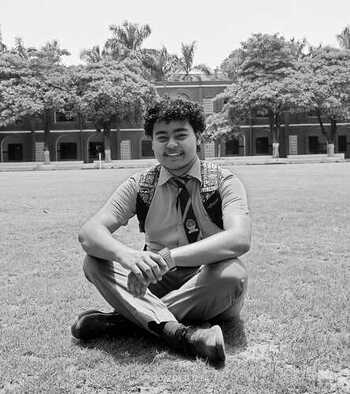
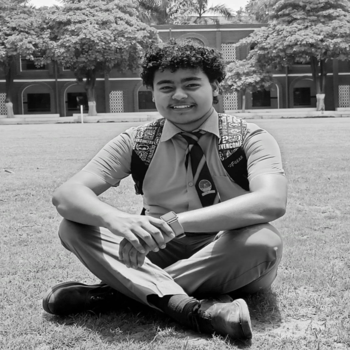
update_2

diff --git a/my-project/src/constants/index.js b/my-project/src/constants/index.js
@@ -3,9 +3,13 @@ import project2 from "../assets/projects/project-2.jpg";
 import project3 from "../assets/projects/project-3.jpg";
 import project4 from "../assets/projects/project-4.jpg";
 
-export const HERO_CONTENT = `I am a passionate full stack developer with a knack for crafting robust and scalable web applications. With 5 years of hands-on experience, I have honed my skills in front-end technologies like React and Next.js, as well as back-end technologies like Node.js, MySQL, PostgreSQL, and MongoDB. My goal is to leverage my expertise to create innovative solutions that drive business growth and deliver exceptional user experiences.`;
+export const HERO_CONTENT = `I'm a Computer Science student who loves turning ideas into working systems. Whether it's building tools that make things easier, automating what feels slow, or just figuring out how things work under the hood—I'm always up for the challenge. I care about writing clean, thoughtful code and creating things that are actually useful and enjoying the process of getting better every day.`;
 
-export const ABOUT_TEXT = `I am a dedicated and versatile full stack developer with a passion for creating efficient and user-friendly web applications. With 5 years of professional experience, I have worked with a variety of technologies, including React, Next.js, Node.js, MySQL, PostgreSQL, and MongoDB. My journey in web development began with a deep curiosity for how things work, and it has evolved into a career where I continuously strive to learn and adapt to new challenges. I thrive in collaborative environments and enjoy solving complex problems to deliver high-quality solutions. Outside of coding, I enjoy staying active, exploring new technologies, and contributing to open-source projects.`;
+export const ABOUT_TEXT = `I am a dedicated and curious developer with a strong interest in building reliable, thoughtful, and practical systems. While currently pursuing my degree in Computer Science, I’ve spent the past few years designing and developing full-stack applications that solve real problems — from smart traffic systems to facial recognition-based queue management tools.
+
+I’ve worked with technologies like Python, Flask, SQLite, React, and OpenCV, and I’m always expanding my toolkit as I explore areas like AI, backend development, and embedded systems. My journey into tech started with a simple interest in how systems work, and it’s grown into a drive to create things that are both technically solid and genuinely useful.
+
+I enjoy working on collaborative projects, leading initiatives like the MLSA community at MIET, and constantly learning from every challenge. Outside of coding, you’ll find me experimenting with new tech, thinking about system design, or simplifying complex ideas into working solutions.`;
 
 export const EXPERIENCES = [
   {
@@ -40,37 +44,44 @@ export const EXPERIENCES = [
 
 export const PROJECTS = [
   {
-    title: "E-Commerce Website",
+    title: "Smart Queue Reduction System",
     image: project1,
     description:
-      "A fully functional e-commerce website with features like product listing, shopping cart, and user authentication.",
-    technologies: ["HTML", "CSS", "React", "Node.js", "MongoDB"],
+      "A facial recognition-based queue management system that reduces waiting times and ensures secure authentication.",
+    technologies: ["Python", "OpenCV", "Flask", "SQLite", "React"],
   },
   {
-    title: "Task Management App",
+    title: "Presence",
     image: project2,
     description:
-      "An application for managing tasks and projects, with features such as task creation, assignment, and progress tracking.",
-    technologies: ["HTML", "CSS", "Angular", "Firebase"],
+      "An AI-based attendance system that uses facial recognition to automate and secure attendance tracking.",
+    technologies: ["Python", "Flask", "OpenCV", "React", "SQLite"],
   },
   {
-    title: "Portfolio Website",
+    title: "VeriScan",
     image: project3,
     description:
-      "A personal portfolio website showcasing projects, skills, and contact information.",
-    technologies: ["HTML", "CSS", "React", "Bootstrap"],
+      "An ID verification system that extracts Aadhaar numbers from uploaded images using OCR for secure authentication.",
+    technologies: ["Python", "Flask", "React", "SQLite", "Tesseract OCR"],
   },
   {
-    title: "Blogging Platform",
+    title: "Smart Traffic Light System",
     image: project4,
     description:
-      "A platform for creating and publishing blog posts, with features like rich text editing, commenting, and user profiles.",
-    technologies: ["HTML", "CSS", "Vue.js", "Express", "mySQL"],
+      "An AI-powered traffic management system that dynamically adjusts signals based on vehicle density.",
+    technologies: ["Python", "OpenCV", "Flask", "React", "MongoDB"],
   },
+  // {
+  //   title: "AI-Powered Speed Reading App",
+  //   image: project5,
+  //   description:
+  //     "A web application that extracts text from book images and displays words at a user-controlled speed for faster reading.",
+  //   technologies: ["Python", "Flask", "React", "OCR", "SQLite"],
+  // },
 ];
 
 export const CONTACT = {
   address: "Meerut, Uttar Pradesh, India",
-  phoneNo: "+91 9520664190 ",
-  email: "yagyanshsinghdeshwal@gmil.com",
+  phoneNo: "+91   9520664190 ",
+  email: "yagyanshsinghdeshwal@gmail.com",
 };

diff --git a/my-project/src/components/Technologies.jsx b/my-project/src/components/Technologies.jsx
@@ -1,8 +1,12 @@
 import { RiReactjsLine } from "react-icons/ri";
-import { TbBrandNextjs } from "react-icons/tb";
-import { SiMongodb } from "react-icons/si";
-import { DiRedis } from "react-icons/di";
-import { FaNodeJs } from "react-icons/fa";
+import {
+  SiMongodb,
+  SiFastapi,
+  SiFlask,
+  SiJavascript,
+  SiPython,
+  SiAmazon,
+} from "react-icons/si"; // Changed AWS to SiAmazon
 import { BiLogoPostgresql } from "react-icons/bi";
 import { motion } from "framer-motion";
 
@@ -49,7 +53,23 @@ const Technologies = () => {
           animate="animate"
           className="rounded-2xl border-4 border-neutral-800 p-4"
         >
-          <TbBrandNextjs className="text-7xl" />
+          <SiPython className="text-7xl text-blue-500" />
+        </motion.div>
+        <motion.div
+          variants={iconVariants(2)}
+          initial="initial"
+          animate="animate"
+          className="rounded-2xl border-4 border-neutral-800 p-4"
+        >
+          <SiFlask className="text-7xl text-red-700" />
+        </motion.div>
+        <motion.div
+          variants={iconVariants(3)}
+          initial="initial"
+          animate="animate"
+          className="rounded-2xl border-4 border-neutral-800 p-4"
+        >
+          <BiLogoPostgresql className="text-7xl text-sky-700" />
         </motion.div>
         <motion.div
           variants={iconVariants(2)}
@@ -65,7 +85,8 @@ const Technologies = () => {
           animate="animate"
           className="rounded-2xl border-4 border-neutral-800 p-4"
         >
-          <DiRedis className="text-7xl text-red-700" />
+          <SiAmazon className="text-7xl text-orange-500" />{" "}
+          {/* Using SiAmazon instead of SiAmazonaws */}
         </motion.div>
         <motion.div
           variants={iconVariants(2)}
@@ -73,15 +94,15 @@ const Technologies = () => {
           animate="animate"
           className="rounded-2xl border-4 border-neutral-800 p-4"
         >
-          <FaNodeJs className="text-7xl text-green-500" />
+          <SiJavascript className="text-7xl text-yellow-400" />
         </motion.div>
         <motion.div
-          variants={iconVariants(2)}
+          variants={iconVariants(3)}
           initial="initial"
           animate="animate"
           className="rounded-2xl border-4 border-neutral-800 p-4"
         >
-          <BiLogoPostgresql className="text-7xl text-sky-700" />
+          <SiFastapi className="text-7xl text-teal-600" />
         </motion.div>
       </motion.div>
     </motion.div>

diff --git a/my-project/src/components/Hero.jsx b/my-project/src/components/Hero.jsx
@@ -31,7 +31,7 @@ const Hero = () => {
               animate="visible"
               className="bg-gradient-to-r from-pink-300 via-slate-500 to-purple-500 bg-clip-text text-3xl tracking-tight text-transparent"
             >
-              Python Developer
+              Making Ideas Work
             </motion.span>
             <motion.p
               variants={container(1)}
